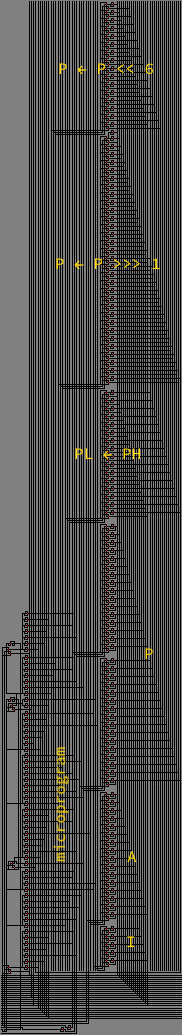
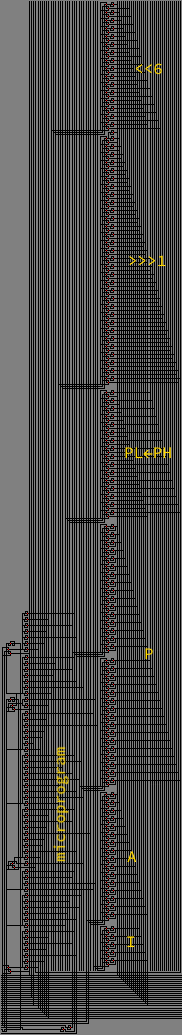
web

diff --git a/web/index.html b/web/index.html
@@ -19,6 +19,32 @@
 <link rel="preconnect" href="https://fonts.gstatic.com" crossorigin>
 <link href="https://fonts.googleapis.com/css2?family=Noto+Sans+Symbols+2&family=Source+Code+Pro&family=Open+Sans&display=swap" rel="stylesheet">
 
+<script>
+MathJax = {
+    tex: {
+        inlineMath: [['$', '$']]
+    },
+    svg: {
+        fontCache: 'global',
+        linebreaks: {
+            automatic: true
+        }
+    },
+    CommonHTML: { 
+        linebreaks: {
+            automatic: true
+        }
+    },
+    "HTML-CSS": { 
+        linebreaks: {
+            automatic: true
+        }
+    }, 
+};
+</script>
+<script id="MathJax-script" async src="https://cdn.jsdelivr.net/npm/mathjax@3/es5/tex-svg.js">
+</script>
+
 <title>Turing's Maze</title>
 
 </head>
@@ -330,7 +356,7 @@
 
 <h2 id="multiplier"><a class="header" href="#multiplier">Multiplier</a></h2>
  
-<p>The multiplier operates on <span class="nowrap">16-bit</span> fixed-point numbers, where the leading six bits represent a signed, two's complement integer, and the remaining ten bits represent a fraction, permitting values in the range <span class="nowrap">[ &minus;32, 31.9990234375 ]</span>. It contains three registers:</p> 
+<p>The multiplier operates on <span class="nowrap">16-bit</span> fixed-point numbers, where the leading six bits represent a signed, two's complement integer, and the remaining ten bits represent a fraction, permitting values in the range $[ &minus;32, 31.9990234375 ]$. It contains three registers:</p> 
 
 <table class="borderless">
 <tr><th class="borderless">Register</th><th class="borderless left">Description</th></tr>
@@ -344,15 +370,15 @@
 <table class="borderless">
 <tr><th class="borderless2">Operation</th><th class="borderless padded">Description</th></tr>
 <tr><td class="mono">PL &larr; PH</td><td class="borderless padded">Move <span class="mono">PH</span> into <span class="mono">PL</span></td></tr>
-<tr><td class="mono">P &larr; P &gt;&gt;&gt; 1</td><td class="borderless padded">Unsigned right-shift <span class="mono">P</span> by <span class="mono">1</span></td></tr>
-<tr><td class="mono">P &larr; P &lt;&lt; 6</td><td class="borderless padded">Left-shift <span class="mono">P</span> by <span class="mono">6</span></td></tr>
+<tr><td class="mono">&gt;&gt;&gt; 1</td><td class="borderless padded">Unsigned right-shift by <span class="mono">1</span></td></tr>
+<tr><td class="mono">&lt;&lt; 6</td><td class="borderless padded">Left-shift by <span class="mono">6</span></td></tr>
 </table>
 
 <p>The multiplier’s registers, devices, and microprogram are labeled in the image below.</p>
 
 <p><img class="centered" alt="multiplier" id="multiplier.png" src="multiplier.png"></p>
 
-<p>The microprogram implements the following algorithm on multiplicands <span class="mono">x</span> and <span class="mono">y</span>.</p>
+<p>The microprogram implements the following algorithm for multiplicands <span class="mono">x</span> and <span class="mono">y</span>.</p>
 
 <pre class="pseudocode2"> 
 <span class="line">A &larr; x</span>
@@ -405,7 +431,11 @@
 
 <p>The escape time evaluator's registers, shifter, and microprogram are labeled in the image below.</p>
 
-<pre class="pseudocode2">
+<p><img class="centered" alt="escape-time-evaluator" id="escape-time-evaluator.png" src="escape-time-evaluator.png"></p>
+
+<p>The microprogram implements the following algorithm for evaluation point $a + bi$.</p>
+
+<pre class="pseudocode2"> 
 <span class="line">X0 &larr; a</span>
 <span class="line">Y0 &larr; b</span>
 <span class="line">X &larr; X0</span>
@@ -427,6 +457,60 @@
 <span class="line">  X &larr; X2 &minus; Y2 + X0</span>
 <span class="line"><span class="keyword2">end</span></span>
 </pre>
+
+<p>The constant <span class="mono">61440</span> corresponds to fixed-point value <span class="nowrap">&minus;4</span>.</p>
+
+<p>At completion, register <span class="mono">I</span> contains the escape time. It maxes out at 64.</p> 
+
+
+<h2 id="main"><a class="header" href="#main">Main</a></h2>
+
+<p>The main microprogram plots a 512&times;512 pixel region of the Mandelbrot set for points</p>
+
+<p>$\{a+bi:a\in[-2.0,0.5],b\in[-1.25, 1.25]\}$</p> 
+
+<p>Since the set is horizontally symmetric within that region, the microprogram computes only the upper half. The display device reflects the computed region to produce the entire image.</p>
+
+<p>The main microprogram employs four registers:</p>
+
+<table class="borderless">
+<tr><th class="borderless">Register</th><th class="borderless left">Description</th></tr>
+<tr><td class="mono centered">J</td><td class="borderless"><span class="nowrap">10-bit</span> column index</td></tr>
+<tr><td class="mono centered">I</td><td class="borderless"><span class="nowrap">9-bit</span> row index</td></tr>
+<tr><td class="mono centered">X</td><td class="borderless">Evaluation point <span class="nowrap">x-coordinate</span></td></tr>
+<tr><td class="mono centered">Y</td><td class="borderless">Evaluation point <span class="nowrap">y-coordinate</span></td></tr>
+</table>
+
+<p>Its components are labeled in the image below.</p>
+
+<p><img class="centered" alt="main" id="main.png" src="main.png"></p>
+
+<p>The main microprogram implements the following algorithm.</p>
+
+<pre class="pseudocode2"> 
+<span class="line">Y &larr; 64256</span> 
+<span class="line">I &larr; 0</span>
+<span class="line">
+<span class="line"><span class="keyword2">while true do</span></span>
+<span class="line">  X &larr; 63488</span>
+<span class="line">  J &larr; 0</span>
+<span class="line">  <span class="keyword2">while true do</span></span>
+<span class="line">    plot(J, I, evalEscapeTime(X, Y))</span>
+<span class="line">    J &larr; J + 1</span>
+<span class="line">    <span class="keyword2">if</span> J<span class="sub3">9</span> = 1 <span class="keyword2">then</span></span>
+<span class="line">      <span class="keyword2">break</span></span>
+<span class="line">    <span class="keyword2">end</span></span>
+<span class="line">    X &larr; X + 5</span>
+<span class="line">  <span class="keyword2">end</span></span>
+<span class="line">  I &larr; I + 1</span>
+<span class="line">  <span class="keyword2">if</span> I<span class="sub3">8</span> = 1 <span class="keyword2">then</span></span>
+<span class="line">    <span class="keyword2">break</span></span>
+<span class="line">  <span class="keyword2">end</span></span>
+<span class="line">  Y &larr; Y + 5</span>
+<span class="line"><span class="keyword2">end</span></span>
+</pre>
+
+<p>Constants <span class="mono">64256</span> and <span class="mono">63488</span> represent fixed-point values <span class="nowrap">&minus;1.25</span> and <span class="nowrap">&minus;2</span>, respectively. The constant <span class="mono">5</span> corresponds to the fixed-point interval between evaluation points: $\dfrac{2.5}{512}=0.0048828125$.</p>
 
 <hr>
 <table class="copyright">

diff --git a/web/style.css b/web/style.css
@@ -296,3 +296,7 @@ span.sub3 {
   vertical-align: sub;
   font-size: smaller;
 }
+
+span.italic {
+    font-style: italic;
+}
